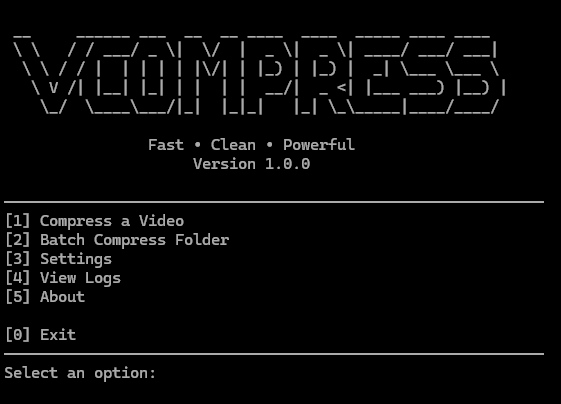
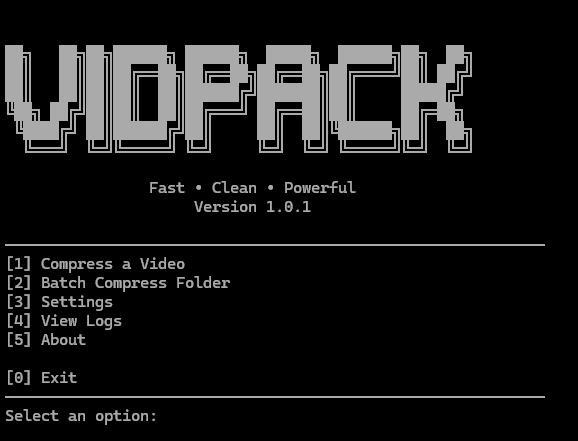
Release v1.0.2

Changed region(s): [[0.0, 0.0891, 0.9697, 0.505], [0.0, 0.5347, 0.9697, 0.9802]]

diff --git a/launcher.py b/launcher.py
@@ -7,12 +7,14 @@ def show_banner() -> None:
 
     print(
         rf"""
- __     ______ ___  __  __ ____  ____  _____ ____ ____  
- \ \   / / ___/ _ \|  \/  |  _ \|  _ \| ____/ ___/ ___| 
-  \ \ / / |  | | | | |\/| | |_) | |_) |  _| \___ \___ \ 
-   \ V /| |__| |_| | |  | |  __/|  _ <| |___ ___) |__) |
-    \_/  \____\___/|_|  |_|_|   |_| \_\_____|____/____/
 
+██╗   ██╗██╗██████╗ ██████╗  █████╗  ██████╗██╗  ██╗    
+██║   ██║██║██╔══██╗██╔══██╗██╔══██╗██╔════╝██║ ██╔╝    
+██║   ██║██║██║  ██║██████╔╝███████║██║     █████╔╝     
+╚██╗ ██╔╝██║██║  ██║██╔═══╝ ██╔══██║██║     ██╔═██╗     
+ ╚████╔╝ ██║██████╔╝██║     ██║  ██║╚██████╗██║  ██╗    
+  ╚═══╝  ╚═╝╚═════╝ ╚═╝     ╚═╝  ╚═╝ ╚═════╝╚═╝  ╚═╝    
+                                                        
                 Fast • Clean • Powerful
                      Version {VERSION}
 """